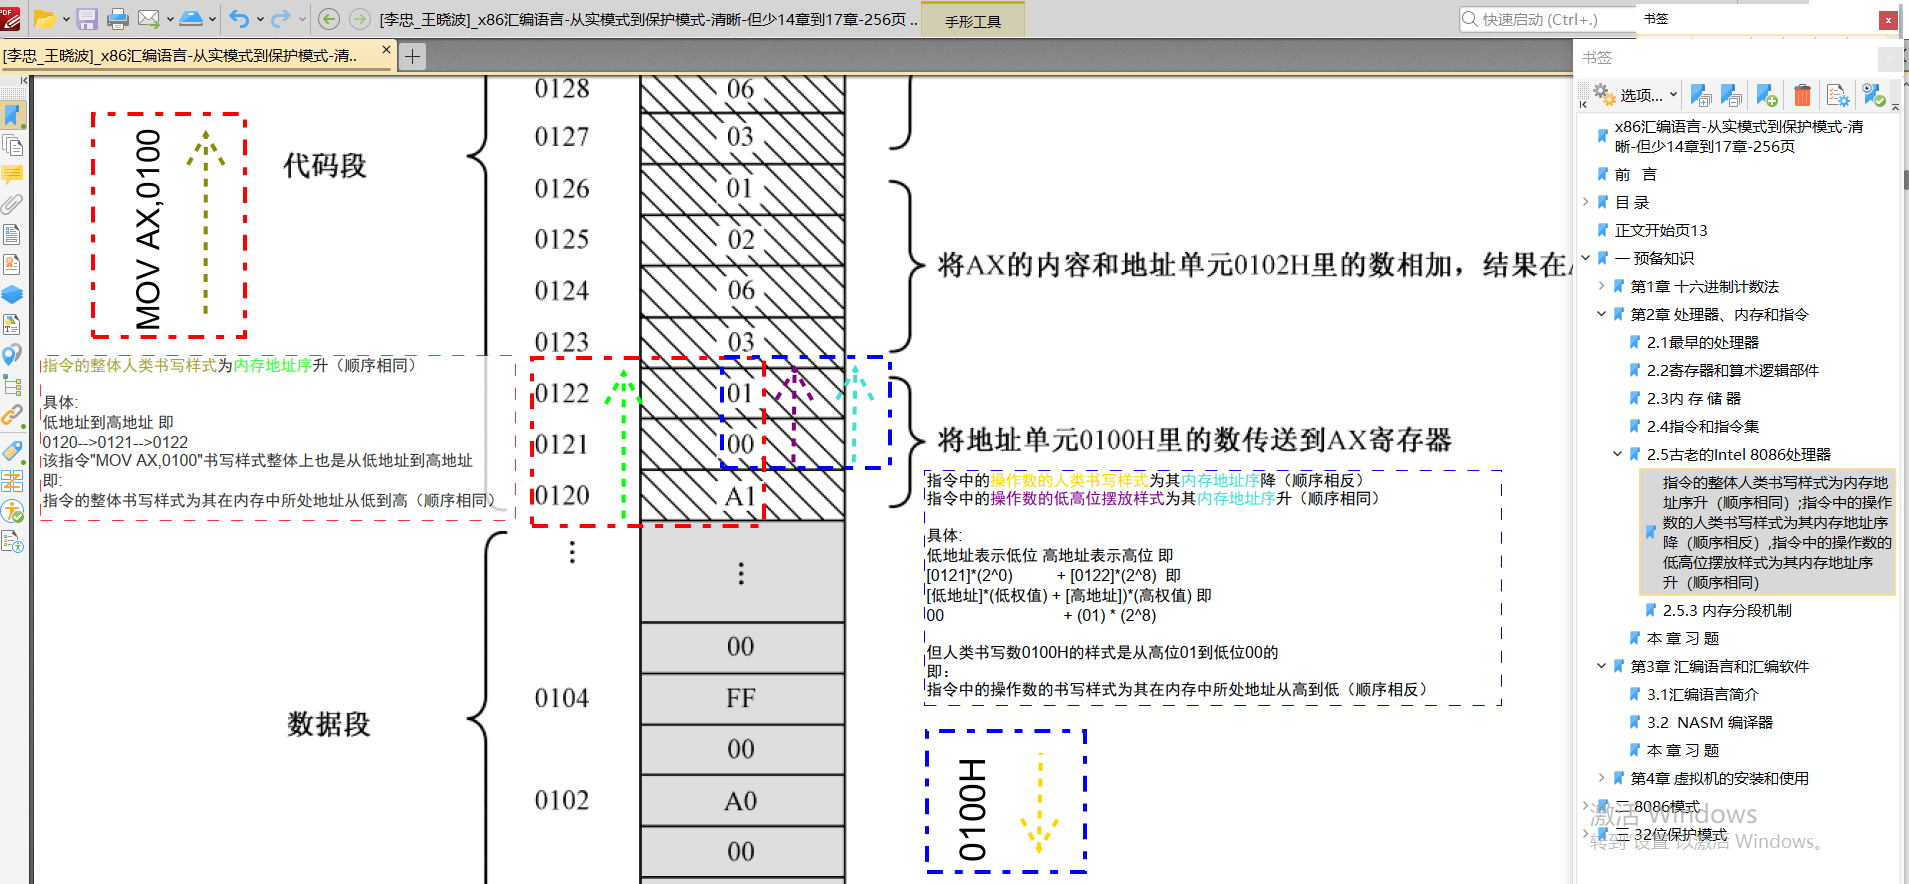
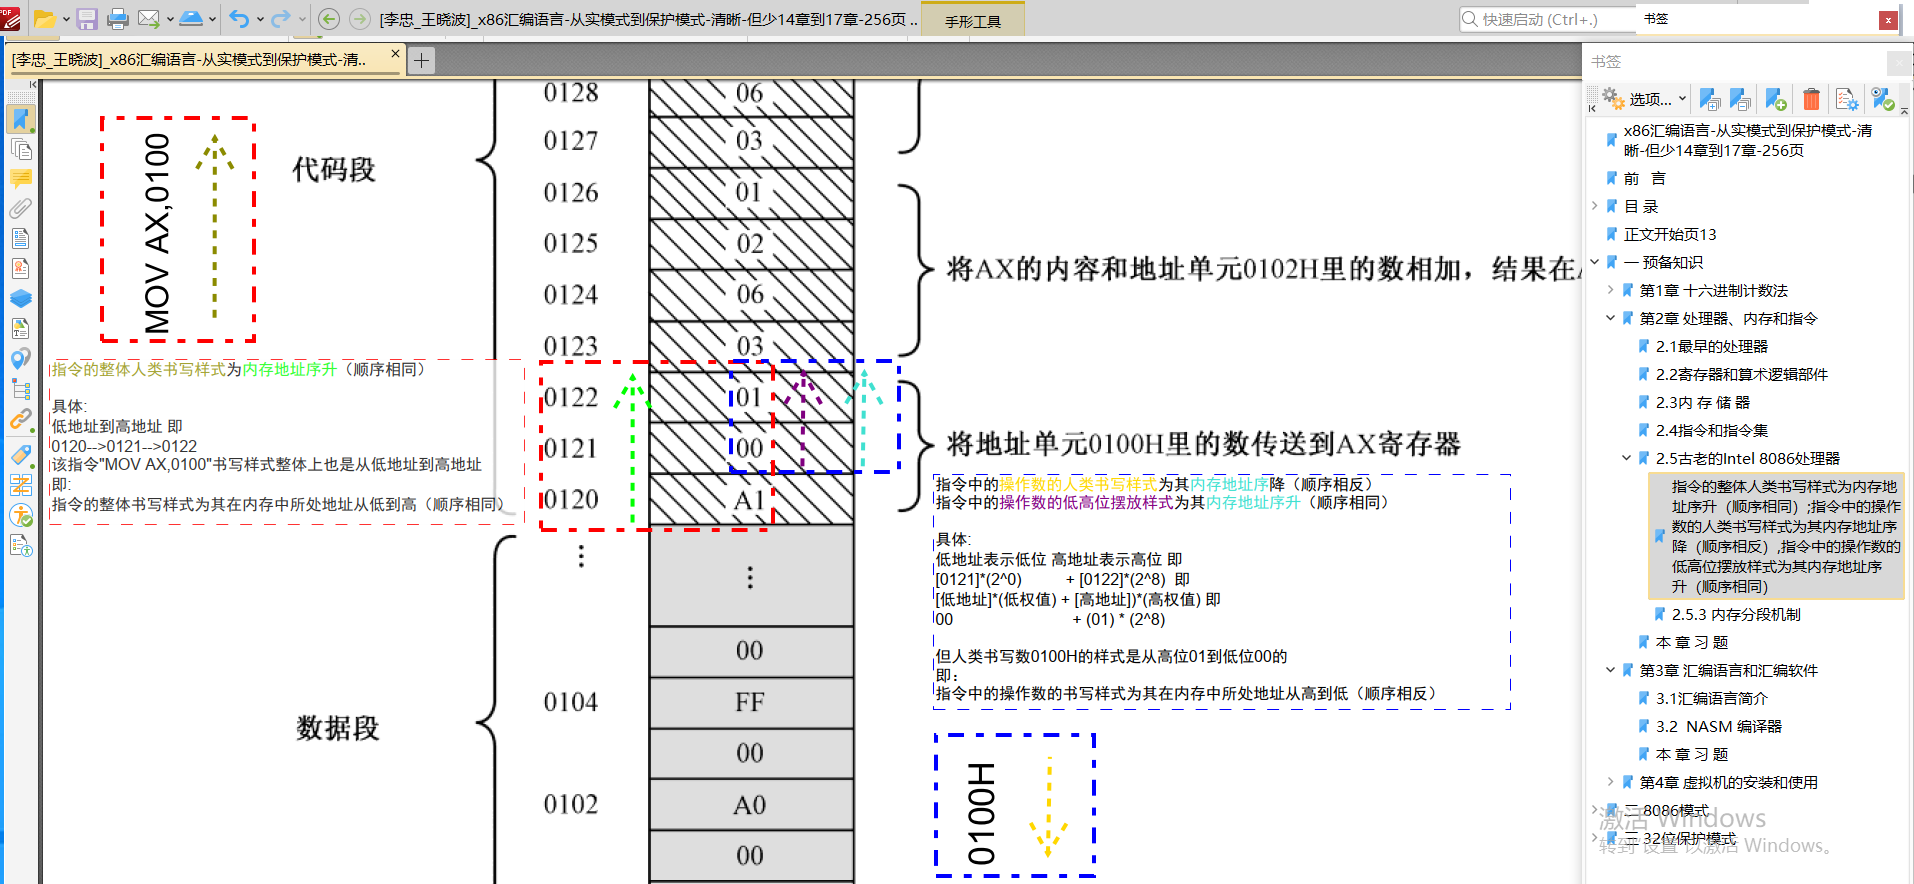
保护模式学习笔记

Changed region(s): [[0.0, 0.0, 1.0, 1.0], [0.4945, 0.8247, 0.5872, 1.0], [0.1545, 0.7941, 0.2163, 0.8552]]

diff --git a/README.md b/README.md
@@ -6,7 +6,7 @@
 
 ## 保护模式学习笔记
 - [保护模式学习笔记_mathematica12](https://gitcode.net/crk/bochs/-/blob/master/%E4%BF%9D%E6%8A%A4%E6%A8%A1%E5%BC%8F%E5%AD%A6%E4%B9%A0%E7%AC%94%E8%AE%B0/%E4%BF%9D%E6%8A%A4%E6%A8%A1%E5%BC%8F_mathematica12.pdf)
-- [指令的整体书写样式为内存地址序升（顺序相同）;指令中的操作数的书写样式为其内存地址序降（顺序相反）,指令中的操作数的低高位摆放样式为其内存地址序升（顺序相同）](https://gitcode.net/crk/bochs/-/raw/dev/0/%E4%BF%9D%E6%8A%A4%E6%A8%A1%E5%BC%8F%E5%AD%A6%E4%B9%A0%E7%AC%94%E8%AE%B0/%E6%8C%87%E4%BB%A4%E7%9A%84%E6%95%B4%E4%BD%93%E4%BA%BA%E7%B1%BB%E4%B9%A6%E5%86%99%E6%A0%B7%E5%BC%8F%E4%B8%BA%E5%86%85%E5%AD%98%E5%9C%B0%E5%9D%80%E5%BA%8F%E5%8D%87%EF%BC%88%E9%A1%BA%E5%BA%8F%E7%9B%B8%E5%90%8C%EF%BC%89;%E6%8C%87%E4%BB%A4%E4%B8%AD%E7%9A%84%E6%93%8D%E4%BD%9C%E6%95%B0%E7%9A%84%E4%BA%BA%E7%B1%BB%E4%B9%A6%E5%86%99%E6%A0%B7%E5%BC%8F%E4%B8%BA%E5%85%B6%E5%86%85%E5%AD%98%E5%9C%B0%E5%9D%80%E5%BA%8F%E9%99%8D%EF%BC%88%E9%A1%BA%E5%BA%8F%E7%9B%B8%E5%8F%8D%EF%BC%89,%E6%8C%87%E4%BB%A4%E4%B8%AD%E7%9A%84%E6%93%8D%E4%BD%9C%E6%95%B0%E7%9A%84%E4%BD%8E%E9%AB%98%E4%BD%8D%E6%91%86%E6%94%BE%E6%A0%B7%E5%BC%8F%E4%B8%BA%E5%85%B6%E5%86%85%E5%AD%98%E5%9C%B0%E5%9D%80%E5%BA%8F%E5%8D%87%EF%BC%88%E9%A1%BA%E5%BA%8F%E7%9B%B8%E5%90%8C%EF%BC%89.png)  , 来自 [ \[李忠_王晓波\]_x86汇编语言-从实模式到保护模式](https://www.aliyundrive.com/drive/file/resource/653dfa43f3a3194ee96f48eda117c29bfa108a1f), 具体是 [\[李忠_王晓波\]_x86汇编语言-从实模式到保护模式-清晰-但少14章到17章-256页.pdf](https://www.aliyundrive.com/s/Rh8AqwXs8wh)
+- [指令的整体人类书写样式为内存地址序升（顺序相同）;指令中的操作数的人类书写样式为其内存地址序降（顺序相反）,指令中的操作数的低高位摆放样式为其内存地址序升（顺序相同）](https://gitcode.net/crk/bochs/-/raw/dev/0/%E4%BF%9D%E6%8A%A4%E6%A8%A1%E5%BC%8F%E5%AD%A6%E4%B9%A0%E7%AC%94%E8%AE%B0/%E6%8C%87%E4%BB%A4%E7%9A%84%E6%95%B4%E4%BD%93%E4%BA%BA%E7%B1%BB%E4%B9%A6%E5%86%99%E6%A0%B7%E5%BC%8F%E4%B8%BA%E5%86%85%E5%AD%98%E5%9C%B0%E5%9D%80%E5%BA%8F%E5%8D%87%EF%BC%88%E9%A1%BA%E5%BA%8F%E7%9B%B8%E5%90%8C%EF%BC%89;%E6%8C%87%E4%BB%A4%E4%B8%AD%E7%9A%84%E6%93%8D%E4%BD%9C%E6%95%B0%E7%9A%84%E4%BA%BA%E7%B1%BB%E4%B9%A6%E5%86%99%E6%A0%B7%E5%BC%8F%E4%B8%BA%E5%85%B6%E5%86%85%E5%AD%98%E5%9C%B0%E5%9D%80%E5%BA%8F%E9%99%8D%EF%BC%88%E9%A1%BA%E5%BA%8F%E7%9B%B8%E5%8F%8D%EF%BC%89,%E6%8C%87%E4%BB%A4%E4%B8%AD%E7%9A%84%E6%93%8D%E4%BD%9C%E6%95%B0%E7%9A%84%E4%BD%8E%E9%AB%98%E4%BD%8D%E6%91%86%E6%94%BE%E6%A0%B7%E5%BC%8F%E4%B8%BA%E5%85%B6%E5%86%85%E5%AD%98%E5%9C%B0%E5%9D%80%E5%BA%8F%E5%8D%87%EF%BC%88%E9%A1%BA%E5%BA%8F%E7%9B%B8%E5%90%8C%EF%BC%89.png)  , 来自 [ \[李忠_王晓波\]_x86汇编语言-从实模式到保护模式](https://www.aliyundrive.com/drive/file/resource/653dfa43f3a3194ee96f48eda117c29bfa108a1f), 具体是 [\[李忠_王晓波\]_x86汇编语言-从实模式到保护模式-清晰-但少14章到17章-256页.pdf](https://www.aliyundrive.com/s/Rh8AqwXs8wh)
 
 
 
